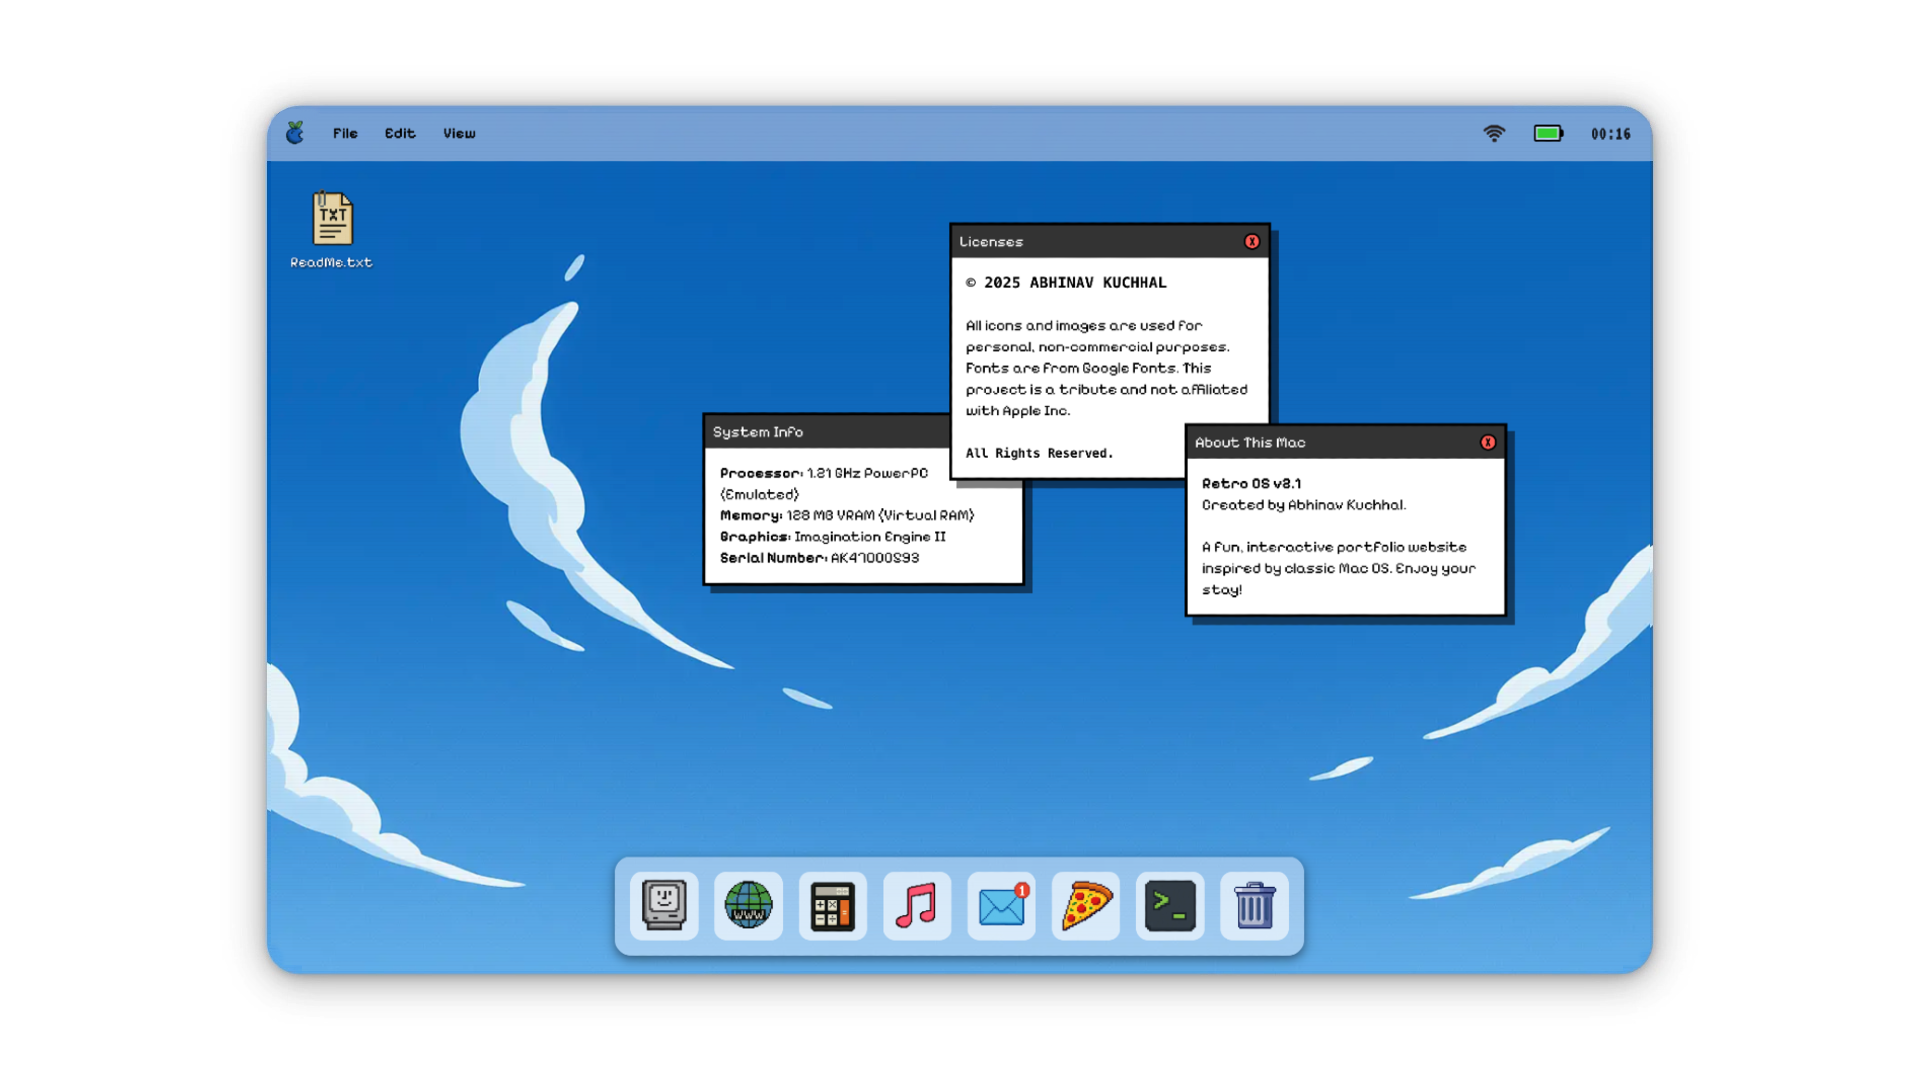
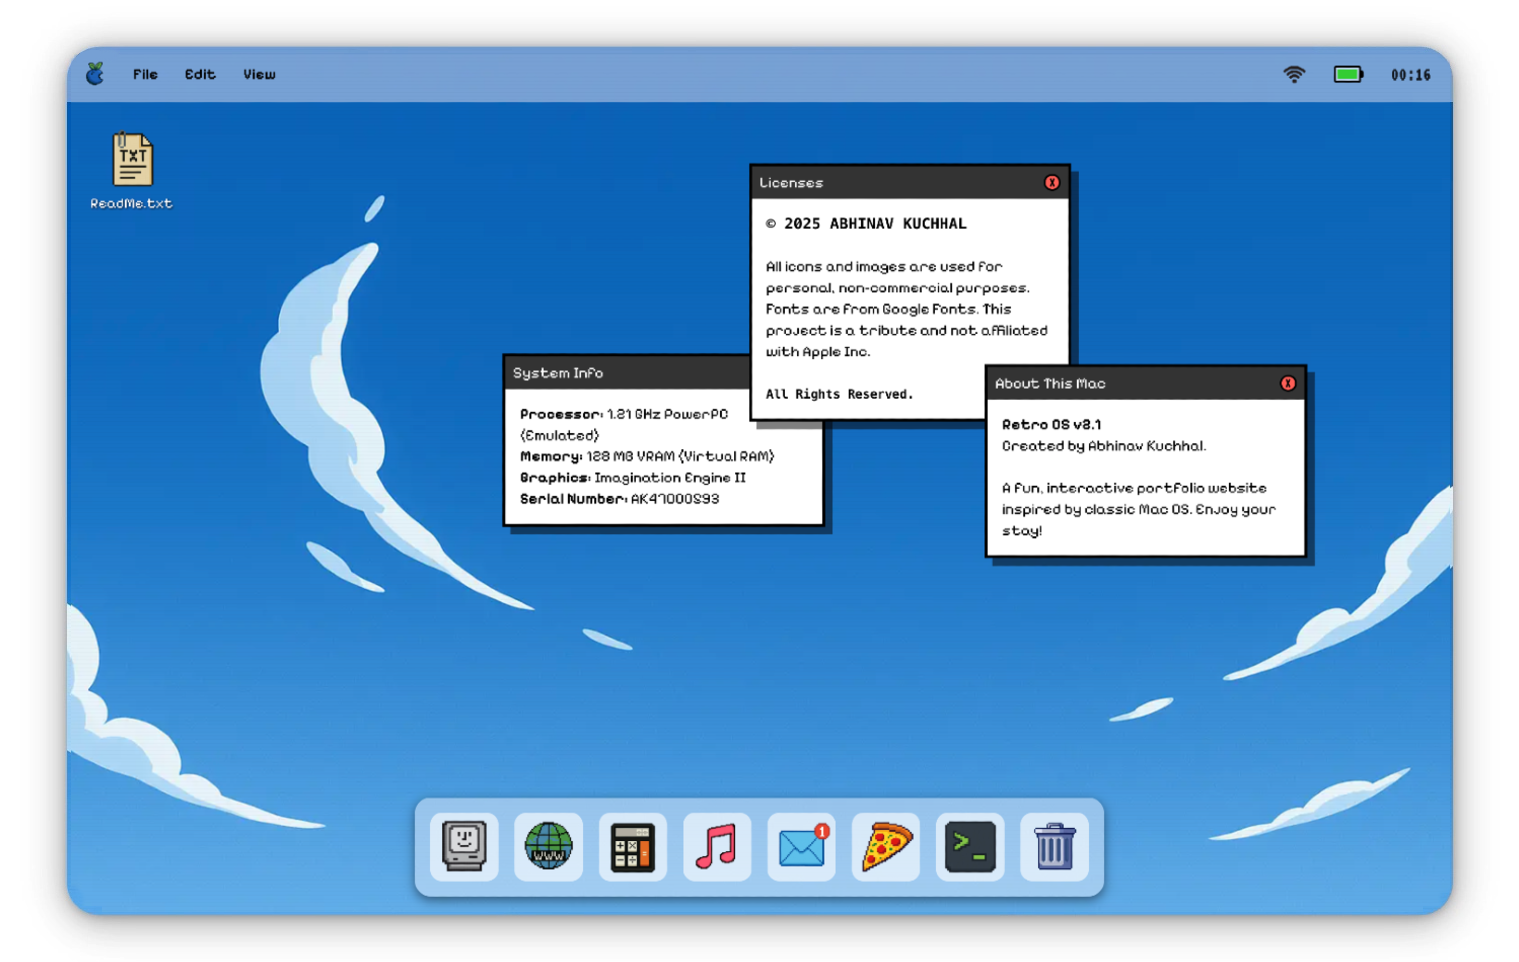
Fixed Readme.md

diff --git a/README.md b/README.md
@@ -4,7 +4,7 @@
 
 RetroOS is a nostalgic, interactive portfolio environment that recreates the magic of a vintage 90s operating system. Built with **Vanilla JavaScript, HTML5, and CSS3**, it serves as a creative workspace to showcase projects, lore, and software engineering expertise.
 
-![Desktop Overview](assets/screenshots/Demo1.jpg)
+![Desktop Overview](assets/screenshots/Demo1.png)
 
 ---
 
@@ -48,7 +48,7 @@ RetroOS is a playground for retro computing fans and web developers alike. We ar
 
 ## 📸 Screenshots
 
-![Music and Apps](assets/screenshots/Demo2.jpg)
+![Music and Apps](assets/screenshots/Demo2.png)
 
 ---
 
